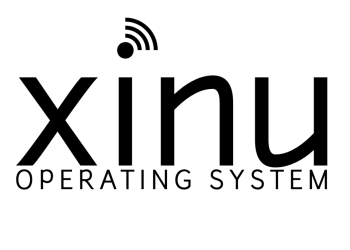
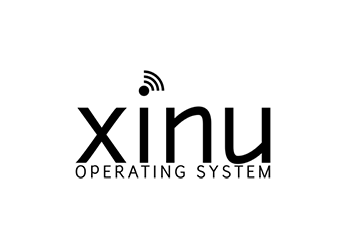
Update project images

Changed region(s): [[0.0286, 0.28, 0.9429, 0.784], [0.3143, 0.056, 0.4571, 0.252]]

diff --git a/_projects/attendance-manager.md b/_projects/attendance-manager.md
@@ -2,10 +2,10 @@
 title: "Attendance Manager"
 excerpt: "Enhancing and adding features using C."
 header:
-  teaser: /assets/images/projects/attendance-manager.png
+  teaser: /assets/images/projects/attendance-manager-th.png
 sidebar:
   - title: "<i class=\"fa fa-github\" aria-hidden=\"true\"></i> <a href=\"https://github.com/yashketkar/OS-P536-S17\">GitHub Repo</a>"
-    image: /assets/images/projects/attendance-manager.png
+    image: /assets/images/projects/attendance-manager-sb.png
     image_alt: "logo"
   - title: "Responsibilities"
     text: "Modifying and upgrading various aspects of Xinu OS"

diff --git a/_projects/yelp-challenge.md b/_projects/yelp-challenge.md
@@ -2,10 +2,10 @@
 title: "Yelp Dataset Challenge"
 excerpt: "Enhancing and adding features using C."
 header:
-  teaser: /assets/images/projects/xinu.png
+  teaser: /assets/images/projects/yelp-dataset-challenge-th.png
 sidebar:
   - title: "<i class=\"fa fa-github\" aria-hidden=\"true\"></i> <a href=\"https://github.com/yashketkar/OS-P536-S17\">GitHub Repo</a>"
-    image: /assets/images/projects/xinu.png
+    image: /assets/images/projects/yelp-dataset-challenge-sb.png
     image_alt: "logo"
   - title: "Responsibilities"
     text: "Modifying and upgrading various aspects of Xinu OS"

diff --git a/_projects/image-orientation-detection.md b/_projects/image-orientation-detection.md
@@ -2,10 +2,10 @@
 title: "Image Orientation Detection"
 excerpt: "Enhancing and adding features using C."
 header:
-  teaser: /assets/images/projects/xinu.png
+  teaser: /assets/images/projects/image-orientation-th.png
 sidebar:
   - title: "<i class=\"fa fa-github\" aria-hidden=\"true\"></i> <a href=\"https://github.com/yashketkar/OS-P536-S17\">GitHub Repo</a>"
-    image: /assets/images/projects/xinu.png
+    image: /assets/images/projects/image-orientation-sb.png
     image_alt: "logo"
   - title: "Responsibilities"
     text: "Modifying and upgrading various aspects of Xinu OS"

diff --git a/_projects/web-game-maker.md b/_projects/web-game-maker.md
@@ -2,10 +2,10 @@
 title: "Web Game Maker"
 excerpt: "Enhancing and adding features using C."
 header:
-  teaser: /assets/images/projects/xinu.png
+  teaser: /assets/images/projects/web-game-maker-th.png
 sidebar:
   - title: "<i class=\"fa fa-github\" aria-hidden=\"true\"></i> <a href=\"https://github.com/yashketkar/OS-P536-S17\">GitHub Repo</a>"
-    image: /assets/images/projects/xinu.png
+    image: /assets/images/projects/web-game-maker-sb.png
     image_alt: "logo"
   - title: "Responsibilities"
     text: "Modifying and upgrading various aspects of Xinu OS"

diff --git a/_projects/eDocLite.md b/_projects/eDocLite.md
@@ -2,10 +2,10 @@
 title: "eDocLite"
 excerpt: "A web based drag-and-drop form building application."
 header:
-  teaser: /assets/images/projects/xinu.png
+  teaser: /assets/images/projects/edoclite-th.png
 sidebar:
   - title: "<i class=\"fa fa-github\" aria-hidden=\"true\"></i> <a href=\"https://github.com/yashketkar/OS-P536-S17\">GitHub Repo</a>"
-    image: /assets/images/projects/xinu.png
+    image: /assets/images/projects/edoclite-sb.png
     image_alt: "logo"
   - title: "Responsibilities"
     text: "Modifying and upgrading various aspects of Xinu OS"

diff --git a/_projects/game-maker.md b/_projects/game-maker.md
@@ -2,10 +2,10 @@
 title: "Game Maker"
 excerpt: "Enhancing and adding features using C."
 header:
-  teaser: /assets/images/projects/xinu.png
+  teaser: /assets/images/projects/game-maker-th.png
 sidebar:
   - title: "<i class=\"fa fa-github\" aria-hidden=\"true\"></i> <a href=\"https://github.com/yashketkar/OS-P536-S17\">GitHub Repo</a>"
-    image: /assets/images/projects/xinu.png
+    image: /assets/images/projects/game-maker-sb.png
     image_alt: "logo"
   - title: "Responsibilities"
     text: "Modifying and upgrading various aspects of Xinu OS"

diff --git a/_projects/spam-email-classifier.md b/_projects/spam-email-classifier.md
@@ -2,10 +2,10 @@
 title: "Spam Email Classifier"
 excerpt: "Enhancing and adding features using C."
 header:
-  teaser: /assets/images/projects/xinu.png
+  teaser: /assets/images/projects/spam-th.jpg
 sidebar:
   - title: "<i class=\"fa fa-github\" aria-hidden=\"true\"></i> <a href=\"https://github.com/yashketkar/OS-P536-S17\">GitHub Repo</a>"
-    image: /assets/images/projects/xinu.png
+    image: /assets/images/projects/spam-sb.jpg
     image_alt: "logo"
   - title: "Responsibilities"
     text: "Modifying and upgrading various aspects of Xinu OS"

diff --git a/_projects/tetris-bot.md b/_projects/tetris-bot.md
@@ -2,10 +2,10 @@
 title: "Tetris Bot"
 excerpt: "Enhancing and adding features using C."
 header:
-  teaser: /assets/images/projects/xinu.png
+  teaser: /assets/images/projects/tetris-th.jpg
 sidebar:
   - title: "<i class=\"fa fa-github\" aria-hidden=\"true\"></i> <a href=\"https://github.com/yashketkar/OS-P536-S17\">GitHub Repo</a>"
-    image: /assets/images/projects/xinu.png
+    image: /assets/images/projects/tetris-sb.jpg
     image_alt: "logo"
   - title: "Responsibilities"
     text: "Modifying and upgrading various aspects of Xinu OS"

diff --git a/_projects/edge-detection.md b/_projects/edge-detection.md
@@ -2,7 +2,7 @@
 title: "Edge Detection in Images"
 excerpt: "Enhancing and adding features using C."
 header:
-  teaser: /assets/images/projects/edge.jpg
+  teaser: /assets/images/projects/edge-detection-th.jpg
 sidebar:
   - title: "<i class=\"fa fa-github\" aria-hidden=\"true\"></i> <a href=\"https://github.com/yashketkar/OS-P536-S17\">GitHub Repo</a>"
     image: /assets/images/projects/edge-detection-sb.png

diff --git a/_projects/xinu.md b/_projects/xinu.md
@@ -2,7 +2,7 @@
 title: "Xinu (Embedded OS)"
 excerpt: "Enhancing and adding features using C."
 header:
-  teaser: /assets/images/projects/xinu-th.jpg
+  teaser: /assets/images/projects/xinu-th.png
 sidebar:
   - title: "<i class=\"fa fa-github\" aria-hidden=\"true\"></i> <a href=\"https://github.com/yashketkar/OS-P536-S17\">GitHub Repo</a>"
     image: /assets/images/projects/xinu-sb.png
